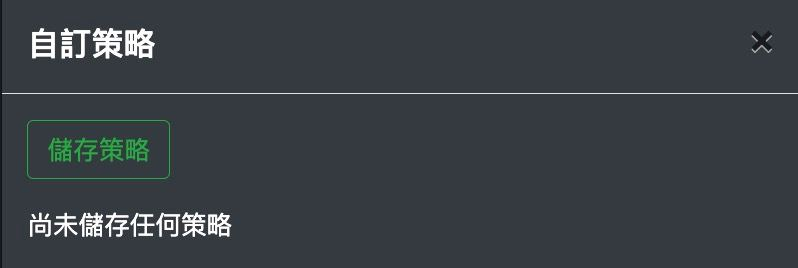
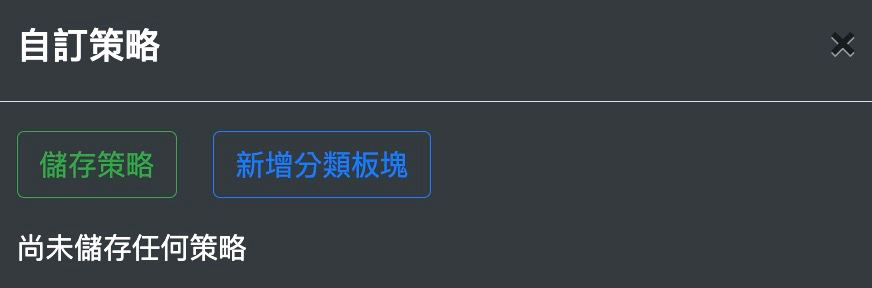
feat：新增板塊、追蹤清單使用教學  因應新需求做調整： 1.新增板塊、追蹤清單使用教學 調整項目：         modified:  "public/images/\350\207\252\350\250\202\347\255\226\347\225\2452.jpg"         new file:   "public/images/\350\207\252\350\250\202\347\255\226\347\225\2455.jpg"         new file:   "public/images/\350\277\275\350\271\2441.jpg"    

diff --git a/views/index.html b/views/index.html
@@ -243,6 +243,12 @@
                 </h5>
                 <h5
                   class="tab-link btn btn-outline-primary mr-3"
+                  data-target="#favoriteIntroduction"
+                >
+                  追蹤清單
+                </h5>
+                <h5
+                  class="tab-link btn btn-outline-primary mr-3"
                   data-target="#webIntroduction"
                 >
                   Web 到價通知
@@ -458,6 +464,49 @@
                     />
                     <div class="description">
                       儲存成功後，點選策略名稱即可將篩選條件自動帶入篩選器
+                    </div>
+
+                    <img
+                      class="d-block mx-auto w-50 mb-3"
+                      src="/images/自訂策略5.jpg"
+                    />
+                    <div class="description">
+                      新增分類板塊，可點擊拖移排序列表順序
+                    </div>
+                  </div>
+                </div>
+              </div>
+
+              <!-- 追蹤清單 -->
+              <div
+                id="favoriteIntroduction"
+                class="tab-content"
+                style="display: none"
+              >
+                <div class="carousel-inner">
+                  <div class="carousel-item active">
+                    <img
+                      class="d-block mx-auto w-50 mb-3"
+                      src="/images/追蹤2.jpg"
+                    />
+                    <div class="description border-bottom">
+                      篩選標的後，點選追蹤按鈕即可加入清單
+                    </div>
+
+                    <img
+                      class="d-block mx-auto w-50 mb-3"
+                      src="/images/追蹤3.jpg"
+                    />
+                    <div class="description border-bottom">
+                      點擊追蹤清單即可看到追蹤的標的
+                    </div>
+
+                    <img
+                      class="d-block mx-auto w-50 mb-3"
+                      src="/images/追蹤4.jpg"
+                    />
+                    <div class="description">
+                      新增分類板塊，可點擊拖移排序列表順序
                     </div>
                   </div>
                 </div>
